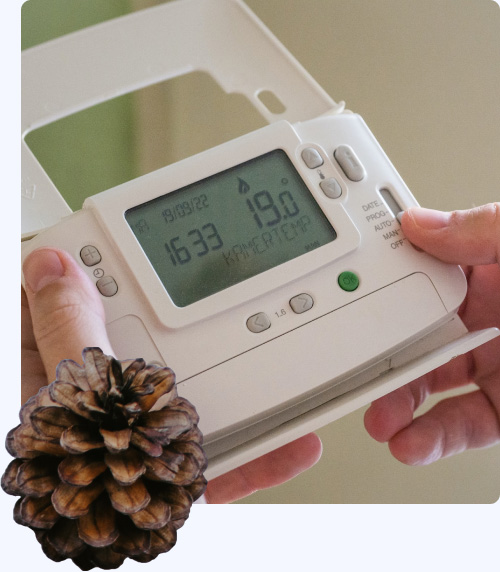
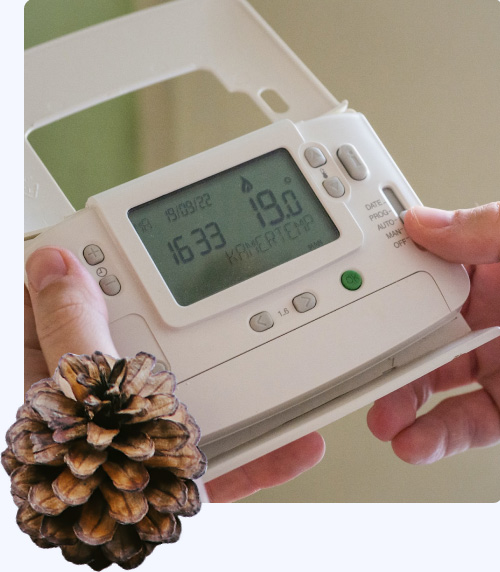
Update Darin's Changes

diff --git a/css/winter.css b/css/winter.css
@@ -167,7 +167,7 @@
 }
 
 #winter-fsec-img3, #winter-fsec-img4 {
-    max-width: 200px;
+    max-width: 225px;
 }
 
 /* winter Second Section */
@@ -225,7 +225,7 @@
 }
 
 #winter-ssec-img1, #winter-ssec-img2 {
-    max-width: 200px;
+    max-width: 230px;
 }
 
 #winter-ssec-thumbnail-sec img {
